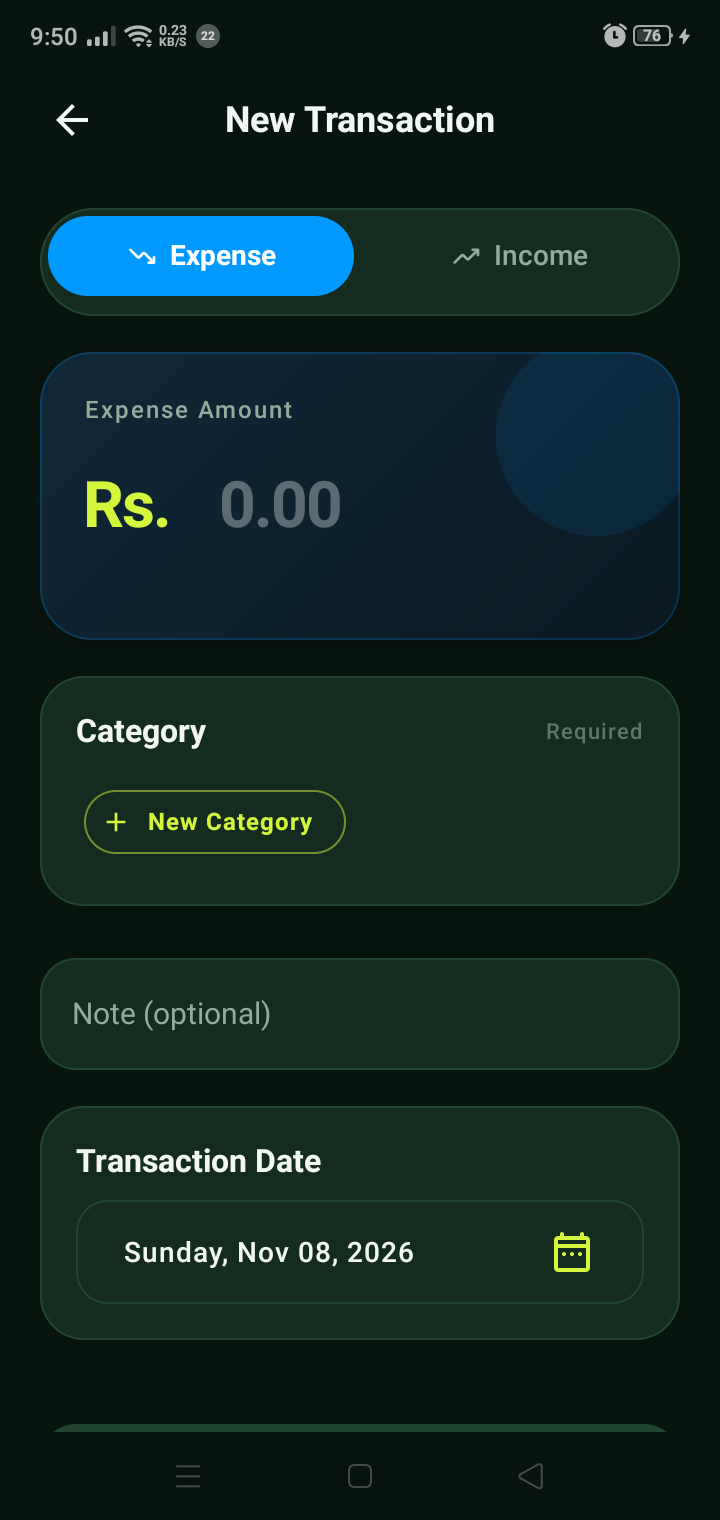
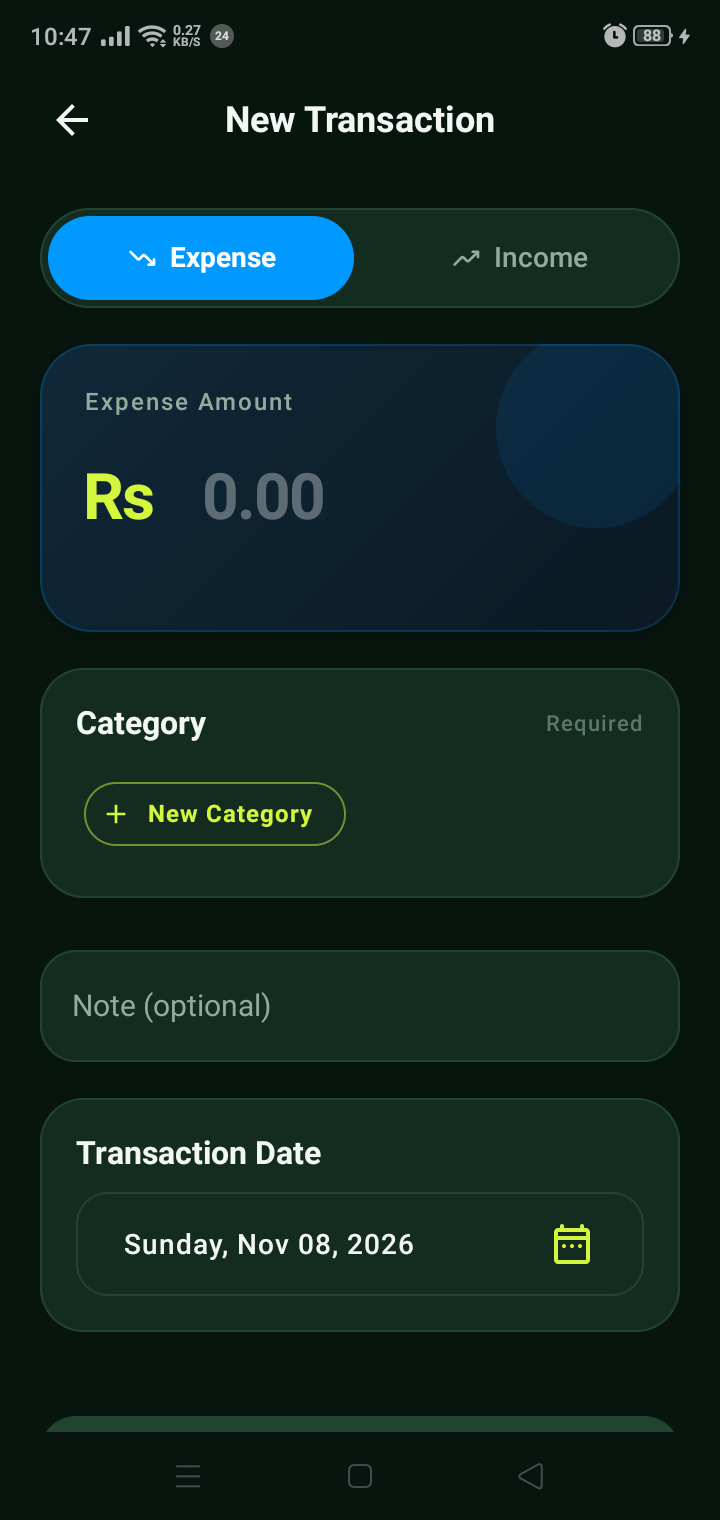
fix(ui): eliminate asymmetrical bottom space on transaction type indicator

diff --git a/app/src/main/java/com/example/expensetracker/presentation/transaction/TypeToggle.kt b/app/src/main/java/com/example/expensetracker/presentation/transaction/TypeToggle.kt
@@ -9,12 +9,12 @@ import androidx.compose.foundation.clickable
 import androidx.compose.foundation.layout.Arrangement
 import androidx.compose.foundation.layout.Box
 import androidx.compose.foundation.layout.Row
+import androidx.compose.foundation.layout.fillMaxHeight
 import androidx.compose.foundation.layout.fillMaxWidth
 import androidx.compose.foundation.layout.height
 import androidx.compose.foundation.layout.padding
 import androidx.compose.foundation.layout.size
 import androidx.compose.foundation.shape.CircleShape
-import androidx.compose.foundation.shape.RoundedCornerShape
 import androidx.compose.material3.Icon
 import androidx.compose.material3.MaterialTheme
 import androidx.compose.material3.Surface
@@ -48,7 +48,7 @@ fun TypeToggle(
     Surface(
         modifier = modifier
             .fillMaxWidth()
-            .height(54.dp),
+            .height(50.dp),
         shape = CircleShape,
         color = extendedColors.cardBackground,
         border = BorderStroke(1.dp, extendedColors.cardBorder)
@@ -56,8 +56,10 @@ fun TypeToggle(
         Row(
             modifier = Modifier
                 .fillMaxWidth()
+                .fillMaxHeight()
                 .padding(4.dp),
-            horizontalArrangement = Arrangement.spacedBy(6.dp)
+            horizontalArrangement = Arrangement.spacedBy(6.dp),
+            verticalAlignment = Alignment.CenterVertically
         ) {
             // Expense Tab Pill (Calm Vivid Blue instead of danger-red)
             val expenseBg by animateColorAsState(
@@ -74,10 +76,10 @@ fun TypeToggle(
             Box(
                 modifier = Modifier
                     .weight(1f)
+                    .fillMaxHeight()
                     .clip(CircleShape)
                     .background(expenseBg)
-                    .clickable { onTypeSelected(Constants.TransactionType.EXPENSE) }
-                    .padding(vertical = 10.dp),
+                    .clickable { onTypeSelected(Constants.TransactionType.EXPENSE) },
                 contentAlignment = Alignment.Center
             ) {
                 Row(
@@ -114,10 +116,10 @@ fun TypeToggle(
             Box(
                 modifier = Modifier
                     .weight(1f)
+                    .fillMaxHeight()
                     .clip(CircleShape)
                     .background(incomeBg)
-                    .clickable { onTypeSelected(Constants.TransactionType.INCOME) }
-                    .padding(vertical = 10.dp),
+                    .clickable { onTypeSelected(Constants.TransactionType.INCOME) },
                 contentAlignment = Alignment.Center
             ) {
                 Row(
